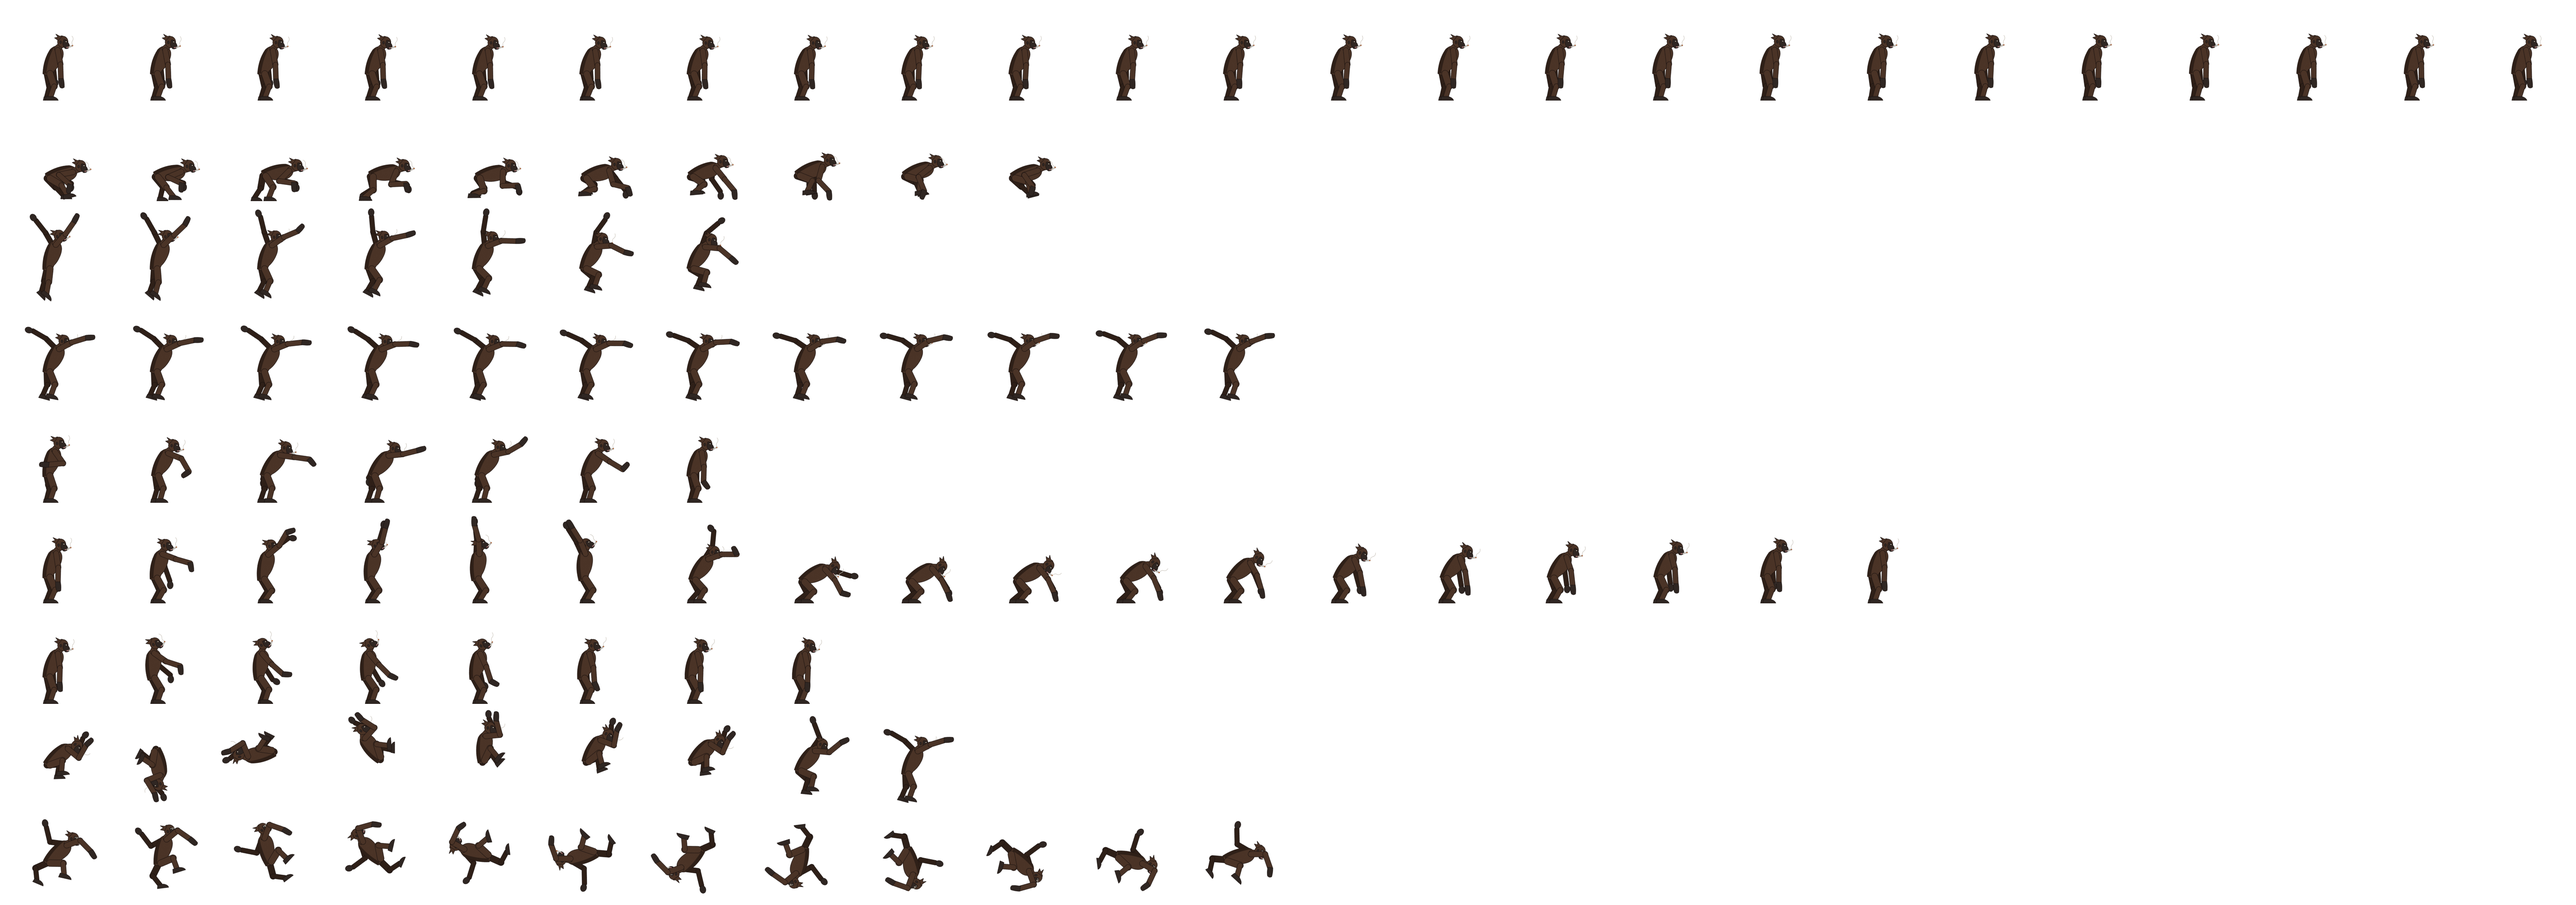
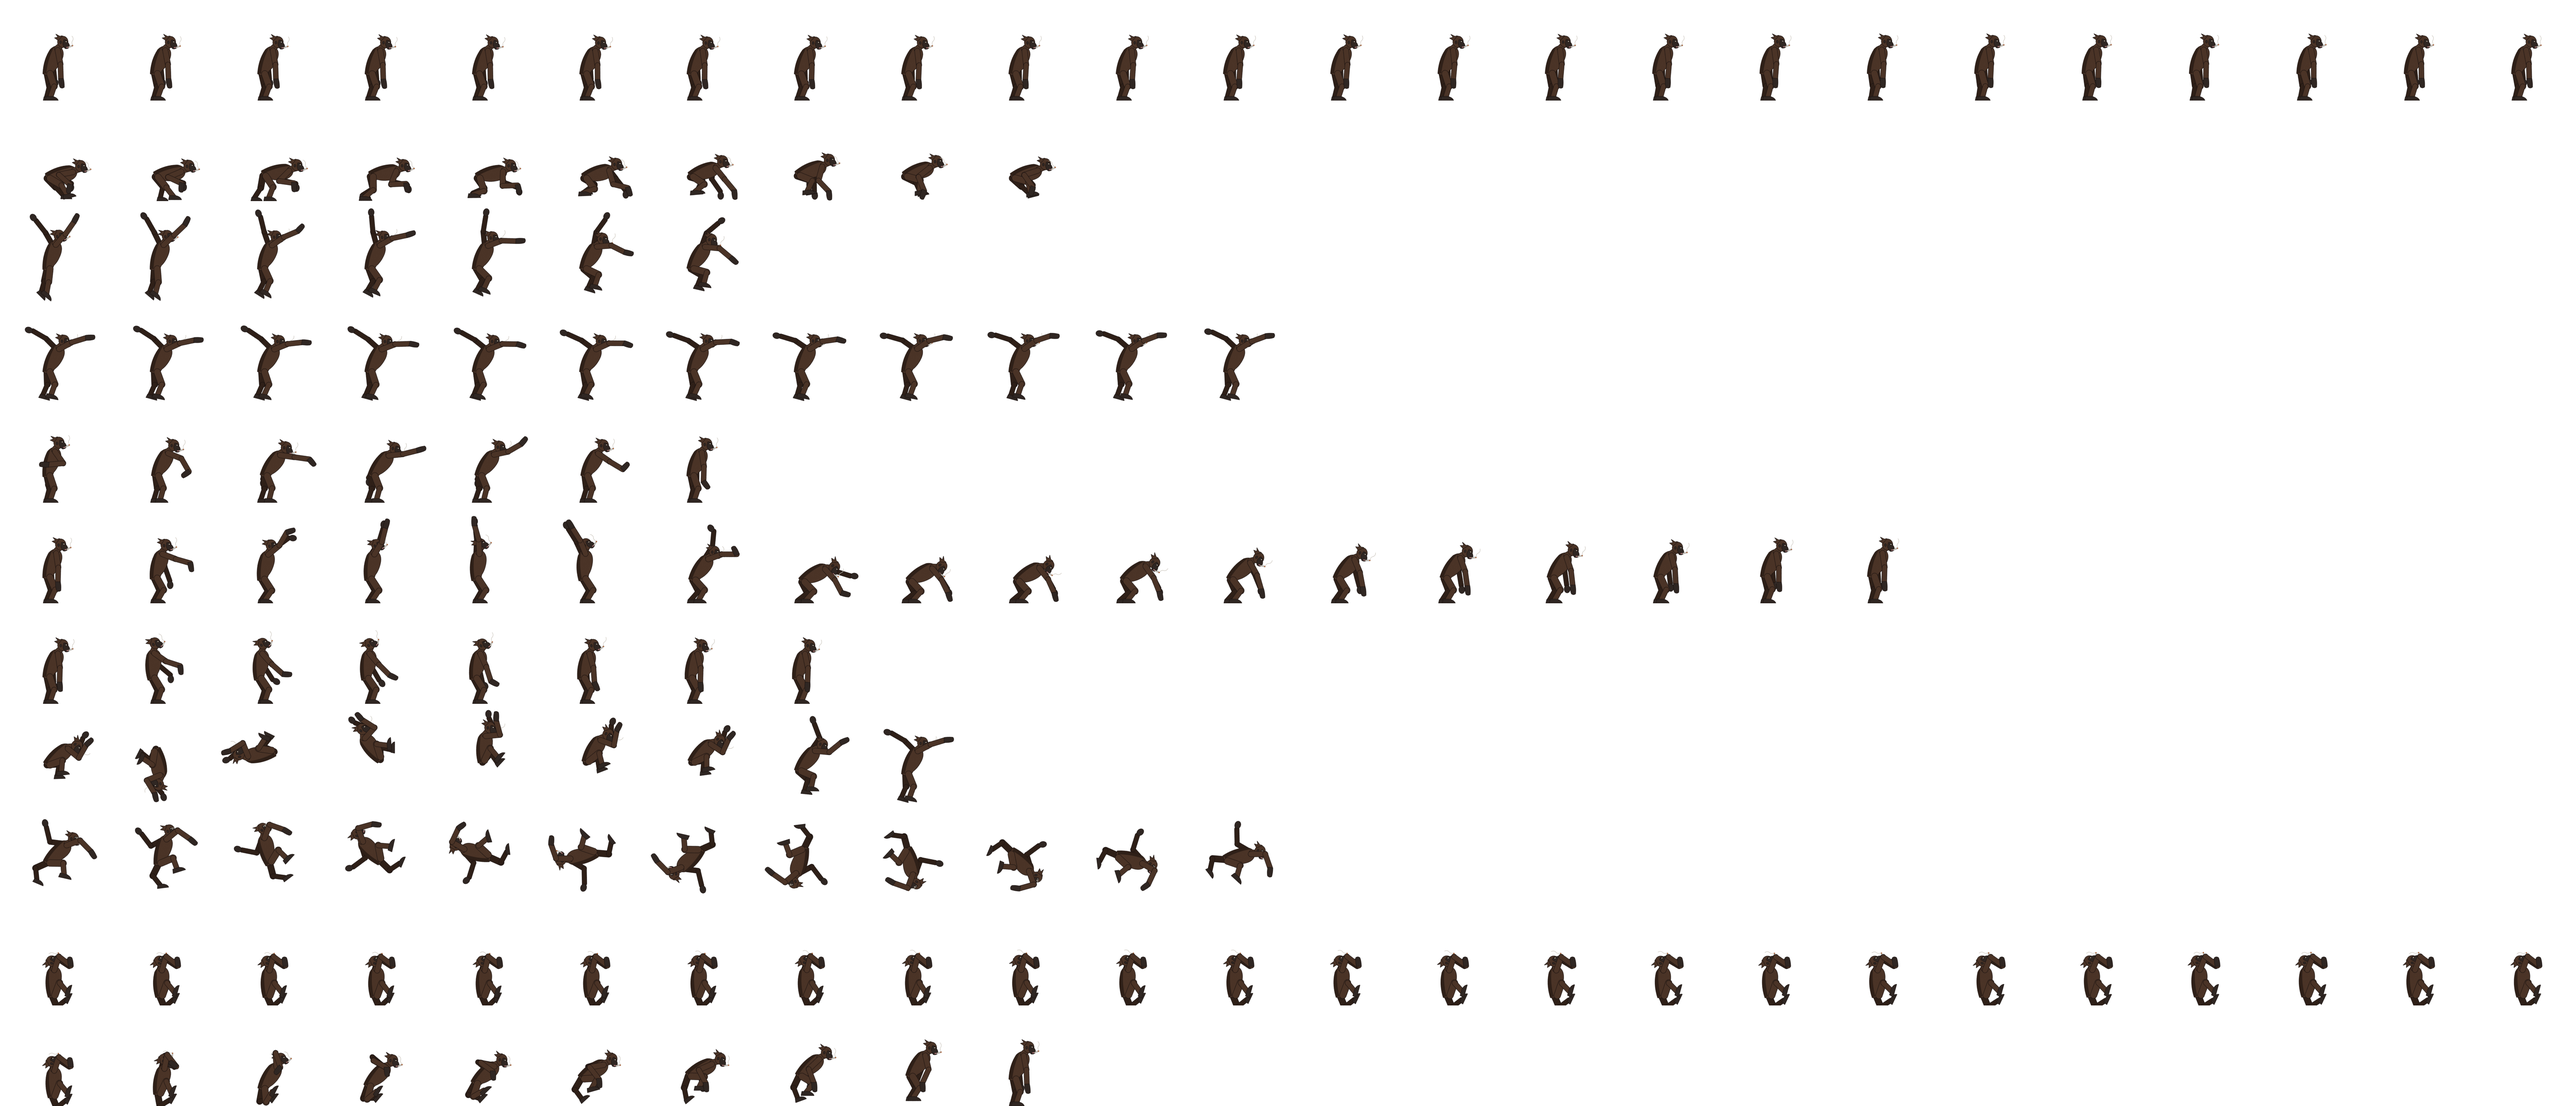
Bonobot: animazioni del bordo, appeso e risalita
Due righe nuove nello spritesheet, renderizzate dal .blend: ledge (mani sullo
spigolo, piedi contro la parete, dondola piano) e climb (si tira su e torna in
piedi in LEDGE.climbMs). ledge e climb tra le animazioni facoltative. In Godot
il braccio provvisorio del bordo non si disegna per chi ha l'animazione ledge.

Claude-Session: https://claude.ai/code/session_01PSu1nKqeaWyfrU4mJsUXm2

diff --git a/src/shared/characters.ts b/src/shared/characters.ts
@@ -4,8 +4,9 @@
 import { CHARACTER_STATS } from "./constants";
 
 export type AnimationName = "idle" | "walk" | "jump" | "fall" | "light" | "heavy" | "hit";
-// Animazioni facoltative (#103): chi non le ha usa al loro posto jump (doppio salto) e hit (lanciato)
-export type OptionalAnimationName = "doubleJump" | "tumble";
+// Animazioni facoltative (#103): chi non le ha usa al loro posto jump (doppio salto) e hit (lanciato);
+// per il bordo (#110, #171) appeso e risalita usano jump
+export type OptionalAnimationName = "doubleJump" | "tumble" | "ledge" | "climb";
 export interface SpriteAnimation {
   row: number;
   frames: number;
@@ -92,6 +93,8 @@ export const CHARACTERS: Record<string, CharacterSpec> = {
         hit: { row: 6, frames: 8, fps: 24, loop: false },
         doubleJump: { row: 7, frames: 9, fps: 24, loop: false }, // capriola in avanti che si apre verso la caduta
         tumble: { row: 8, frames: 12, fps: 24, loop: true }, // rotola all'indietro quando vola via dopo un colpo forte
+        ledge: { row: 9, frames: 24, fps: 12, loop: true }, // appeso allo spigolo, piedi contro la parete, dondola piano
+        climb: { row: 10, frames: 10, fps: 24, loop: false }, // si tira su e torna in piedi in LEDGE.climbMs
       },
     },
   },

diff --git a/public/assets/characters/bonobot/README.md b/public/assets/characters/bonobot/README.md
@@ -5,7 +5,7 @@ Personaggio di test per mosse e abilità, manichino da allenamento (#20) e perso
 ## Spritesheet: `bonobot.png`
 
 - Fotogrammi da **256×240 px**, disegnati a 2x: nel gioco si mostrano a metà (`scale: 0.5`), 128×120 px.
-- Griglia di 24 colonne, **una riga per animazione**, fotogrammi da sinistra, sfondo trasparente.
+- Griglia di 24 colonne e 11 righe, **una riga per animazione**, fotogrammi da sinistra, sfondo trasparente.
 - Guarda **a destra**: per andare a sinistra il client lo specchia.
 - Il centro del corpo è al centro del fotogramma e i piedi toccano il bordo in basso. Il fotogramma è largo perché il braccio teso dell'attacco leggero arriva lontano.
 
@@ -20,6 +20,8 @@ Personaggio di test per mosse e abilità, manichino da allenamento (#20) e perso
 | 6 | hit | 8 | 24 | no | contraccolpo, testa e braccia in ritardo |
 | 7 | doubleJump | 9 | 24 | no | capriola in avanti che si apre verso la caduta (parte con l'evento `jump` in aria) |
 | 8 | tumble | 12 | 24 | sì | rotola all'indietro quando vola via in hitstun, oltre `EFFECTS.tumbleSpeed` |
+| 9 | ledge | 24 | 12 | sì | appeso allo spigolo con le mani sopra il bordo e i piedi contro la parete; dondola piano |
+| 10 | climb | 10 | 24 | no | si tira su, ginocchio sul palco e in piedi in `LEDGE.climbMs` (400 ms); l'ultimo fotogramma è la posa di riposo |
 
 I tempi dei colpi seguono `light` e `heavy` di `ATTACKS` in `constants.ts`: se cambiano, le animazioni vanno rifatte.
 
